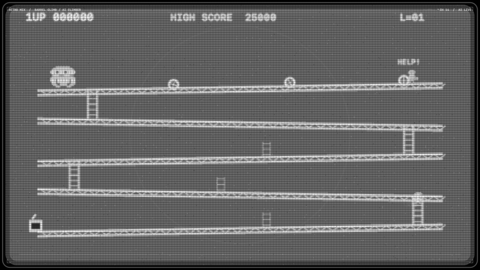
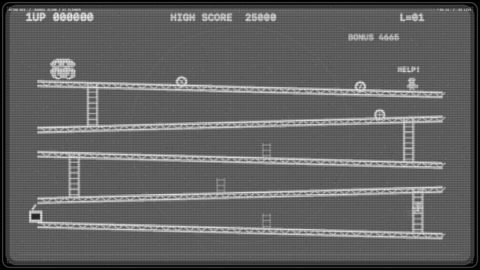
Document Barrel Climb improvements in 1.8.2

Changed region(s): [[0.0625, 0.2074, 0.9375, 0.6519], [0.0625, 0.5333, 0.9375, 0.8889], [0.7188, 0.1185, 0.8438, 0.1481]]

diff --git a/README.md b/README.md
@@ -24,7 +24,7 @@ The image shows an already unlocked JMR license.
 
 ## Download and install
 
-Download the ZIP from [version 1.8.1](https://github.com/mikaelmoran/retro-mix-arcade-downloads/releases/tag/v1.8.1), expand it, and move
+Download the ZIP from [version 1.8.2](https://github.com/mikaelmoran/retro-mix-arcade-downloads/releases/tag/v1.8.2), expand it, and move
 **Retro Mix Arcade.app** to Applications. Open the app, choose a game, and
 click **Save selection**. In **System Settings → Wallpaper → Screen Saver**,
 choose **Retro Mix Arcade**.
@@ -75,7 +75,7 @@ Security → Open Anyway** as described in [Apple's instructions](https://suppor
   plans its next landing. They draw inspiration from Centipede and Frogger.
 - Horizon Defense, Barrel Climb, and Line Capture are inspired by Defender,
   Donkey Kong, and Qix. Their AI pilots intercept aliens over a scrolling world, jump and climb
-  around barrels, and draw lines to claim territory while avoiding hazards. Each has four optional
+  around barrels that roll downhill, and draw lines to claim territory while avoiding hazards. Each has four optional
   game effects alongside the shared CRT controls.
 - Tank Duel's dark field, bright walls, small rotating tanks, and simple score
   display take cues from the original arcade game.

diff --git a/RELEASE_NOTES.md b/RELEASE_NOTES.md
@@ -1,16 +1,13 @@
-# Retro Mix Arcade 1.8.1
+# Retro Mix Arcade 1.8.2
 
-The three newest arcade games have updated graphics and motion:
+**Barrel Climb** has improved barrel physics, AI and animation:
 
-- **Horizon Defense** now scrolls around a wider world, with a scanner,
-  animated ships, enemy fire, evasive AI and particle bursts.
-- **Barrel Climb** has more detailed girders, ladders and pixel characters,
-  with rolling and falling barrels.
-- **Line Capture** has a thinner playfield, animated line work and smoothly
-  moving player marker and edge hazards. The target now matches the displayed
-  75 percent.
-
-All games continue to use the shared monochrome CRT display and effects.
+- Each girder now slopes in the direction its barrels roll. Barrels fall to
+  the next girder at the end and rotate with their actual travel.
+- The AI predicts encounters from relative position and speed, finishes jumps
+  before taking ladders, and checks for approaching barrels above.
+- Jumping and climbing have separate animated poses. Barrel speed and launch
+  timing vary from one barrel to the next.
 
 ## Installation
 
